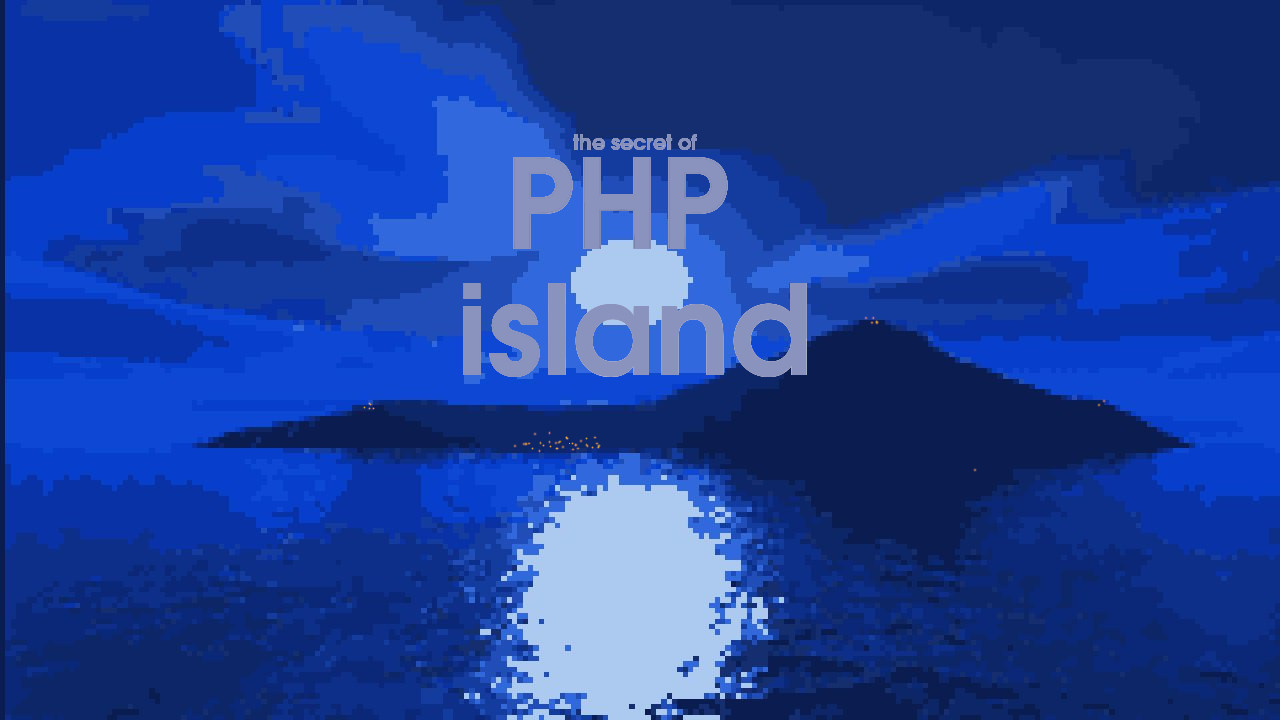
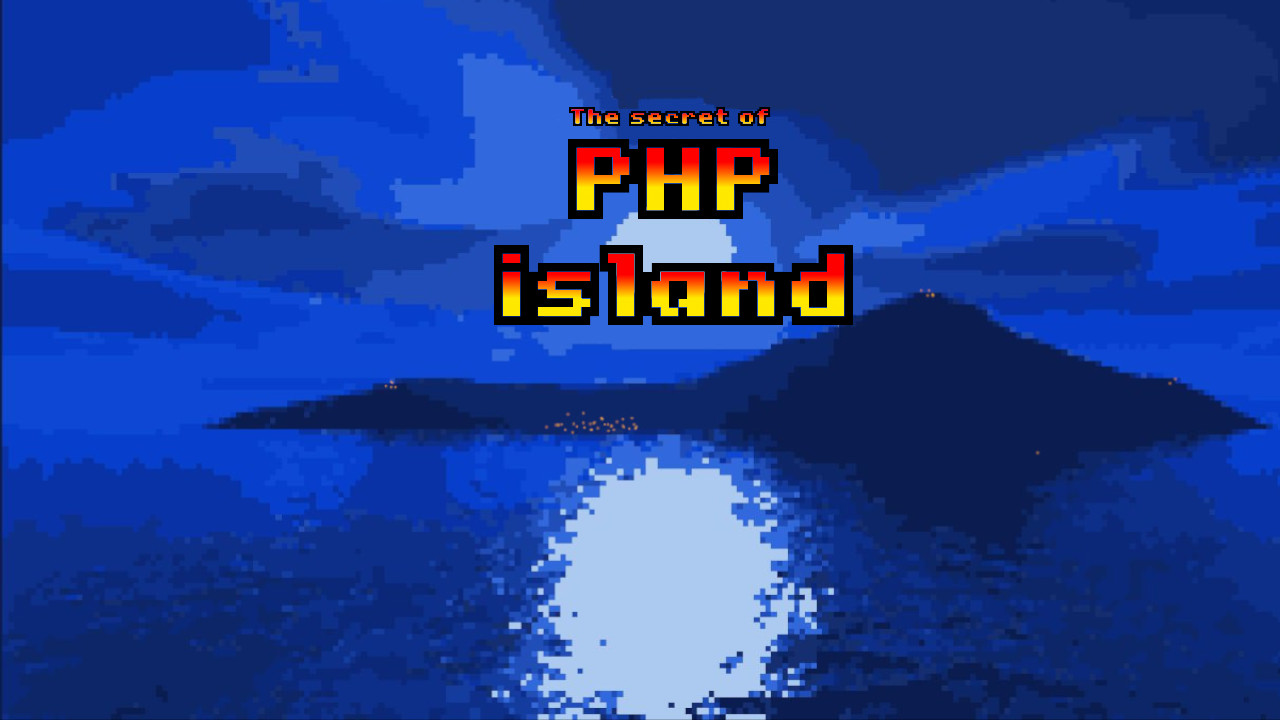
Add new background image to the main page

diff --git a/public/css/base.css b/public/css/base.css
@@ -83,3 +83,11 @@ input[type=email]:focus:not([readonly])
     box-shadow: #5E6BA0 !important;
     border-bottom: #5E6BA0 !important;
 }
+
+.screen {
+    width: 1280px;
+    height: 720px;
+    margin: auto;
+    position: relative;
+}
+/**

diff --git a/public/css/index.css b/public/css/index.css
@@ -27,7 +27,6 @@ General editor_components
 }
 
 .screen.main {
-    margin-top: 40px;
     background-image: url("/images/main_background.jpg");
     background-repeat: no-repeat;
     background-size: cover;
